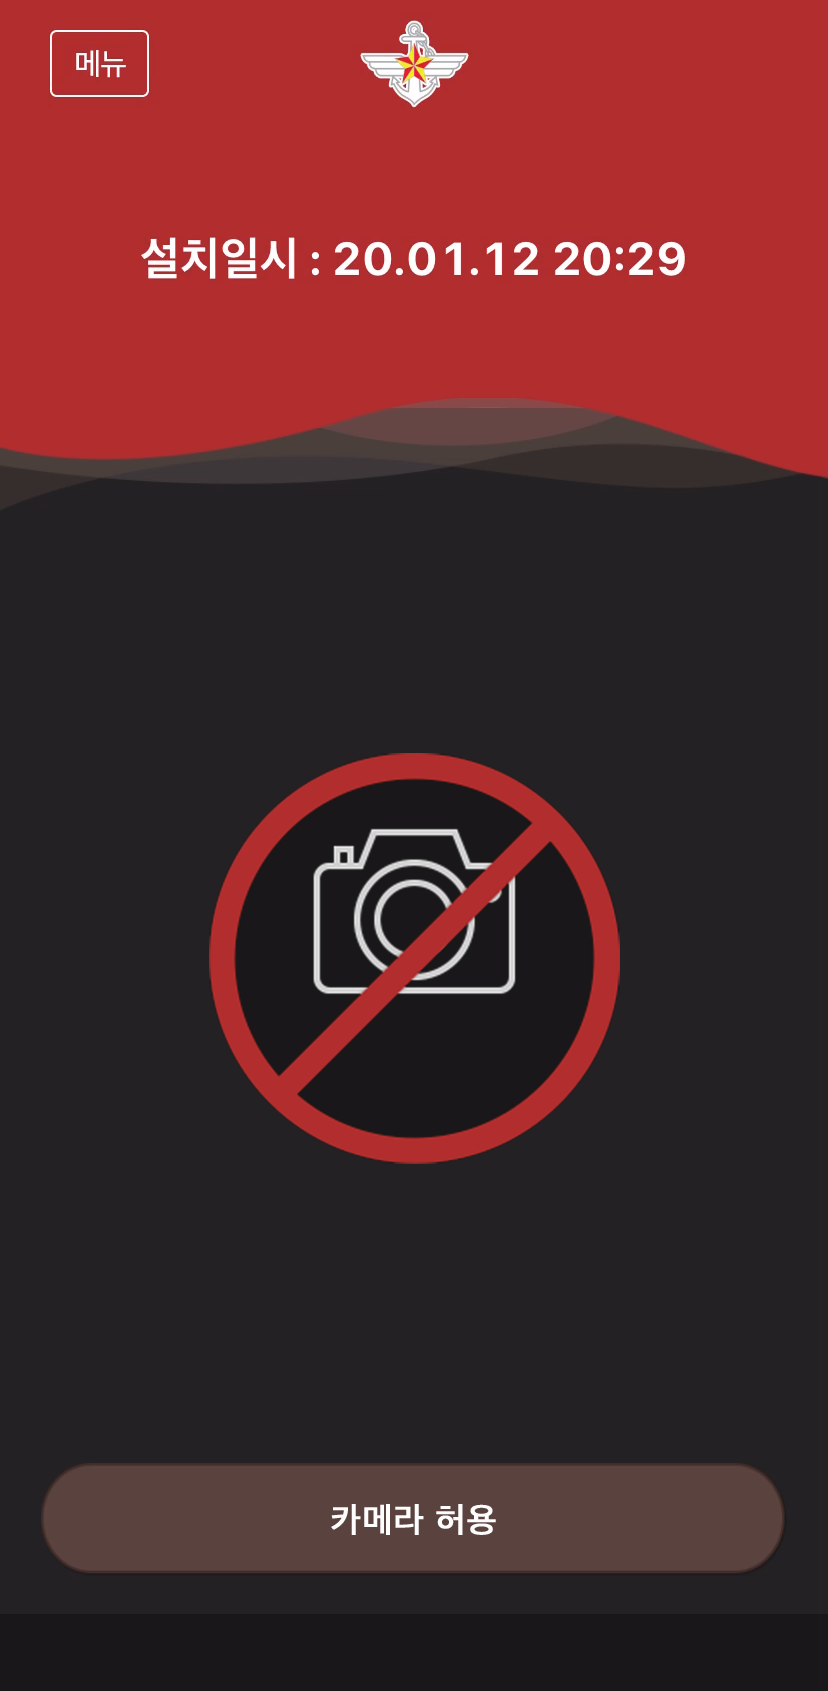
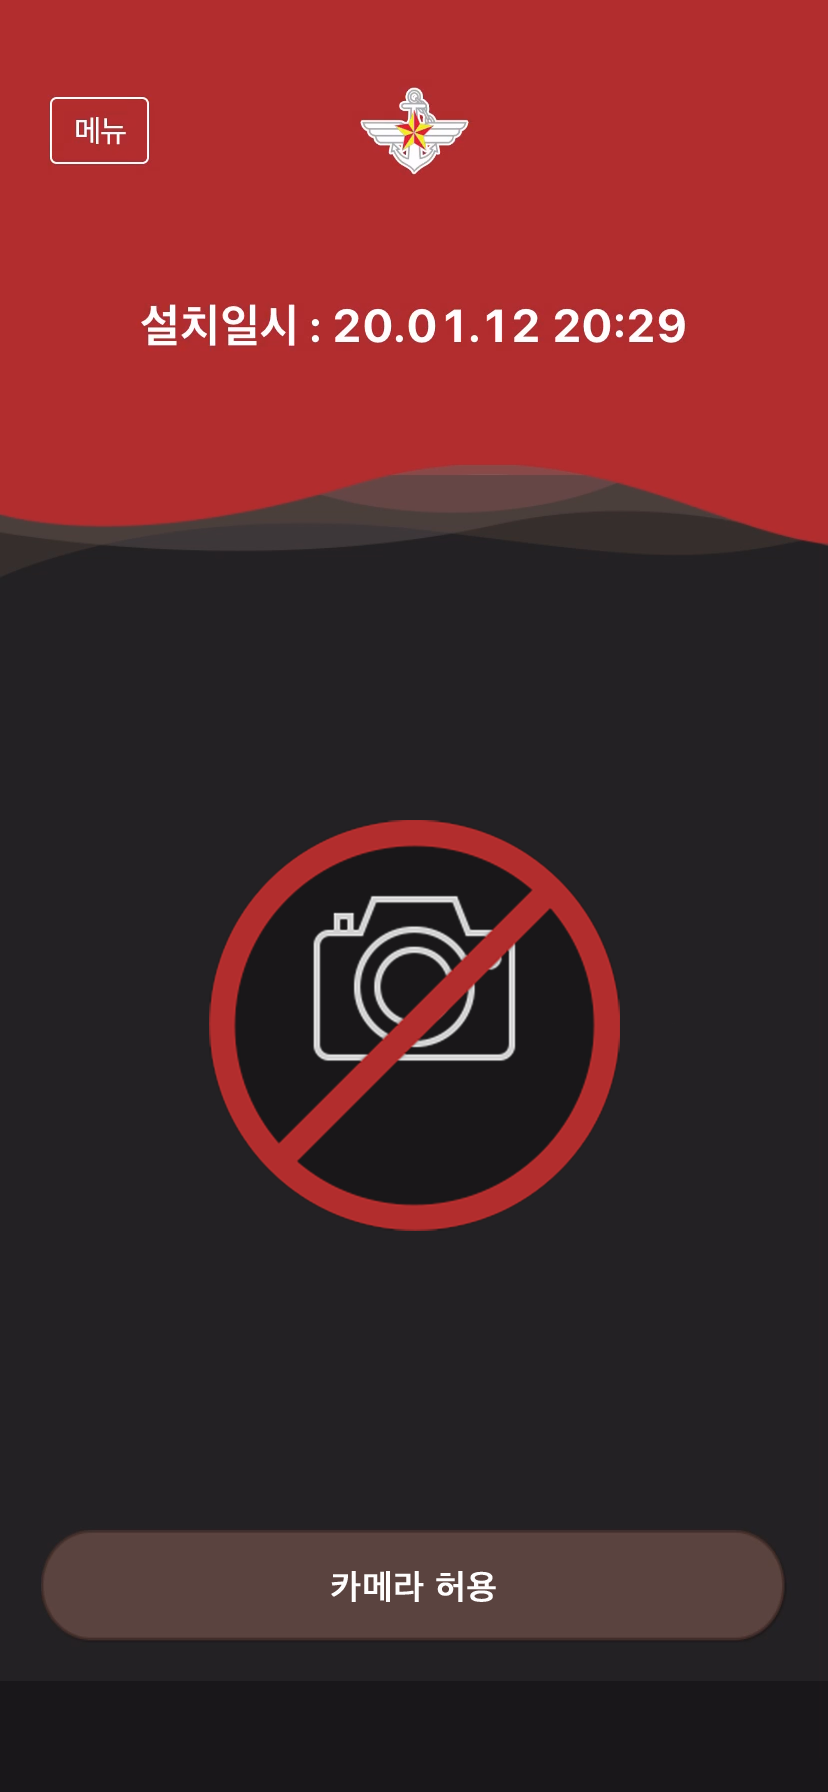
fix many size and position

diff --git a/gara-mmsa/index.html b/gara-mmsa/index.html
@@ -16,7 +16,7 @@
 <meta name="msapplication-TileImage" content="favicon/ms-icon-144x144.png">
 <meta name="theme-color" content="#ffffff">
 
-<meta id="viewport" name="viewport" content="width=device-width, initial-scale=1, minimum-scale=1, maximum-scale=1, viewport-fit=cover">
+<meta name="viewport" content = "width = device-width, initial-scale = 1.0, minimum-scale = 1, maximum-scale = 1, user-scalable = no" />
 <meta name="apple-mobile-web-app-status-bar-style" content="default">
 <meta name="mobile-web-app-capable" content="yes">
 <link rel="apple-touch-startup-image" href="iphone-startup.png">
@@ -35,5 +35,5 @@
             Version 1.0.06
         </div>
     </div>
-    <img src="bg.png"/>
+    <img src="bg.png" height="100%"/>
 </body>

diff --git a/gara-mmsa/rotate-circle.css b/gara-mmsa/rotate-circle.css
@@ -1,9 +1,9 @@
-.rotate-circle {  
-  position: absolute;
-  width: 514;
+.rotate-circle {
+  position: relative;
+  width: 110%;
   height: auto;
-  left: 157px;
-  top: 701px;
+  left: 30.25%;
+  top: 758;
 	-webkit-animation: rotate-center 5s steps(55, start) infinite both;
   animation: rotate-center 5s steps(35, start) infinite both;
 }

diff --git a/gara-mmsa/style.css b/gara-mmsa/style.css
@@ -1,6 +1,6 @@
 .txt-version{
     color: #fefbfb;
-    top: 1640px;
-    left: 335px;
+    bottom: 2.7%;
+    left: 41%;
     font-size: x-large;
 }
